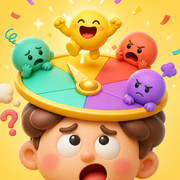
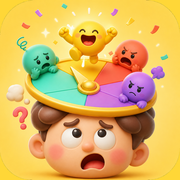
앱 아이콘 구도와 개발일지 정리

diff --git a/tools/make-icons.py b/tools/make-icons.py
@@ -33,18 +33,22 @@ def load_square_master() -> Image.Image:
     side = min(source.size)
     source = ImageOps.fit(source, (side, side), method=Image.Resampling.LANCZOS)
 
-    # 생성 원본은 이미 둥근 앱 아이콘 모양이라 네 모서리에 검은 바탕과 검은 테두리가
-    # 들어 있다. Play와 Android가 다시 마스크를 씌우므로 그 테두리 안쪽만 정사각형으로
-    # 잘라 이중 테두리와 검은 모서리를 없앤다.
-    crop = int(side * 0.07)
-    return source.crop((crop, crop, side - crop, side - crop))
+    # 원본 가장자리의 검은 바탕과 테두리는 모서리에서 연결돼 있다. 이를 노란색으로
+    # flood-fill해 제거하면 얼굴의 검은 눈·입은 보존하면서 원본 구도를 자르지 않아도 된다.
+    # 예전 7% 크롭은 캐릭터의 입과 위쪽 색종이가 잘려 보이는 원인이었다.
+    for corner in ((0, 0), (side - 1, 0), (0, side - 1), (side - 1, side - 1)):
+        ImageDraw.floodfill(source, corner, YELLOW, thresh=128)
+
+    return source
 
 
 def adaptive_foreground(icon: Image.Image, size: int = 1024) -> Image.Image:
     # Android adaptive icon의 원형·물방울형 마스크에서도 얼굴과 네 캐릭터가 남도록
     # 전체 구도를 안전 영역 안으로 줄인다.
     canvas = Image.new("RGBA", (size, size), (0, 0, 0, 0))
-    inner = int(size * 0.82)
+    # Adaptive Icon의 어떤 마스크에서도 안전한 중앙 약 66% 안에 핵심 구도가 들어가야 한다.
+    # 64%로 두어 Samsung 원형 마스크에서도 얼굴·룰렛·네 감정 캐릭터가 잘리지 않게 한다.
+    inner = int(size * 0.64)
     artwork = icon.resize((inner, inner), Image.Resampling.LANCZOS).convert("RGBA")
     alpha = Image.new("L", (inner, inner), 0)
     ImageDraw.Draw(alpha).rounded_rectangle(

diff --git a/README.md b/README.md
@@ -617,6 +617,26 @@ Android legacy·round·adaptive 리소스로 생성되는 것을 확인했다. R
 운영 키로 서명한 release AAB도 생성했고, AAB 내부 인증서 SHA-256이 원본 업로드 키와
 일치하며 JAR 서명 검증을 통과하는 것을 확인했다.
 
+### 15단계 — 앱 아이콘 구도와 Pages 하단 메뉴 보정
+
+최종 아이콘이 Android 런처에서 확대되어 얼굴과 위쪽 색종이가 잘려 보이던 문제를 정리했다.
+원본을 7% 잘라내던 방식은 없애고, 네 모서리의 검은 배경만 노란색으로 채워 원래 구도를
+온전히 보존했다. Adaptive Icon 전경은 핵심 그림이 중앙 64% 안전 영역에 들어오도록 줄여
+Samsung 원형 마스크를 포함한 여러 런처 모양에서도 얼굴·룰렛·감정 캐릭터가 남게 했다.
+같은 생성 스크립트로 앱 아이콘, 파비콘, PWA 아이콘, Play 아이콘, 피처 그래픽과 공유
+미리보기도 다시 맞췄다.
+
+GitHub Pages의 좁은 모바일 화면에서는 하단 메뉴 자체가 아니라 한글 라벨의 아래 획이
+13px 줄 높이에 눌려 잘려 보였다. 웹의 768px 미만 화면에서만 메뉴 높이를 60px에서
+64px로, 라벨 줄 높이를 13px에서 16px로, 항목 최소 높이를 50px에서 54px로 늘렸다.
+Android는 같은 소스를 계속 사용하지만 `Platform.OS === 'web'` 분기 밖의 기존 수치를
+그대로 사용하므로 앱 하단 메뉴에는 변화가 없다.
+
+SM-A165N 앱 정보 화면에서 새 Adaptive Icon의 전체 구도를 확인했다. 웹은 320×568 로컬
+배포본과 실제 GitHub Pages에서 하단 네 라벨의 아래 획과 12px 바닥 여백을 다시 확인했다.
+관련 단위 테스트 8개, 타입 검사와 웹 정적 내보내기를 통과했으며, 이번 보정에서는 사용자의
+요청에 따라 APK나 AAB를 새로 빌드하지 않았다.
+
 ---
 
 ## 남은 일
